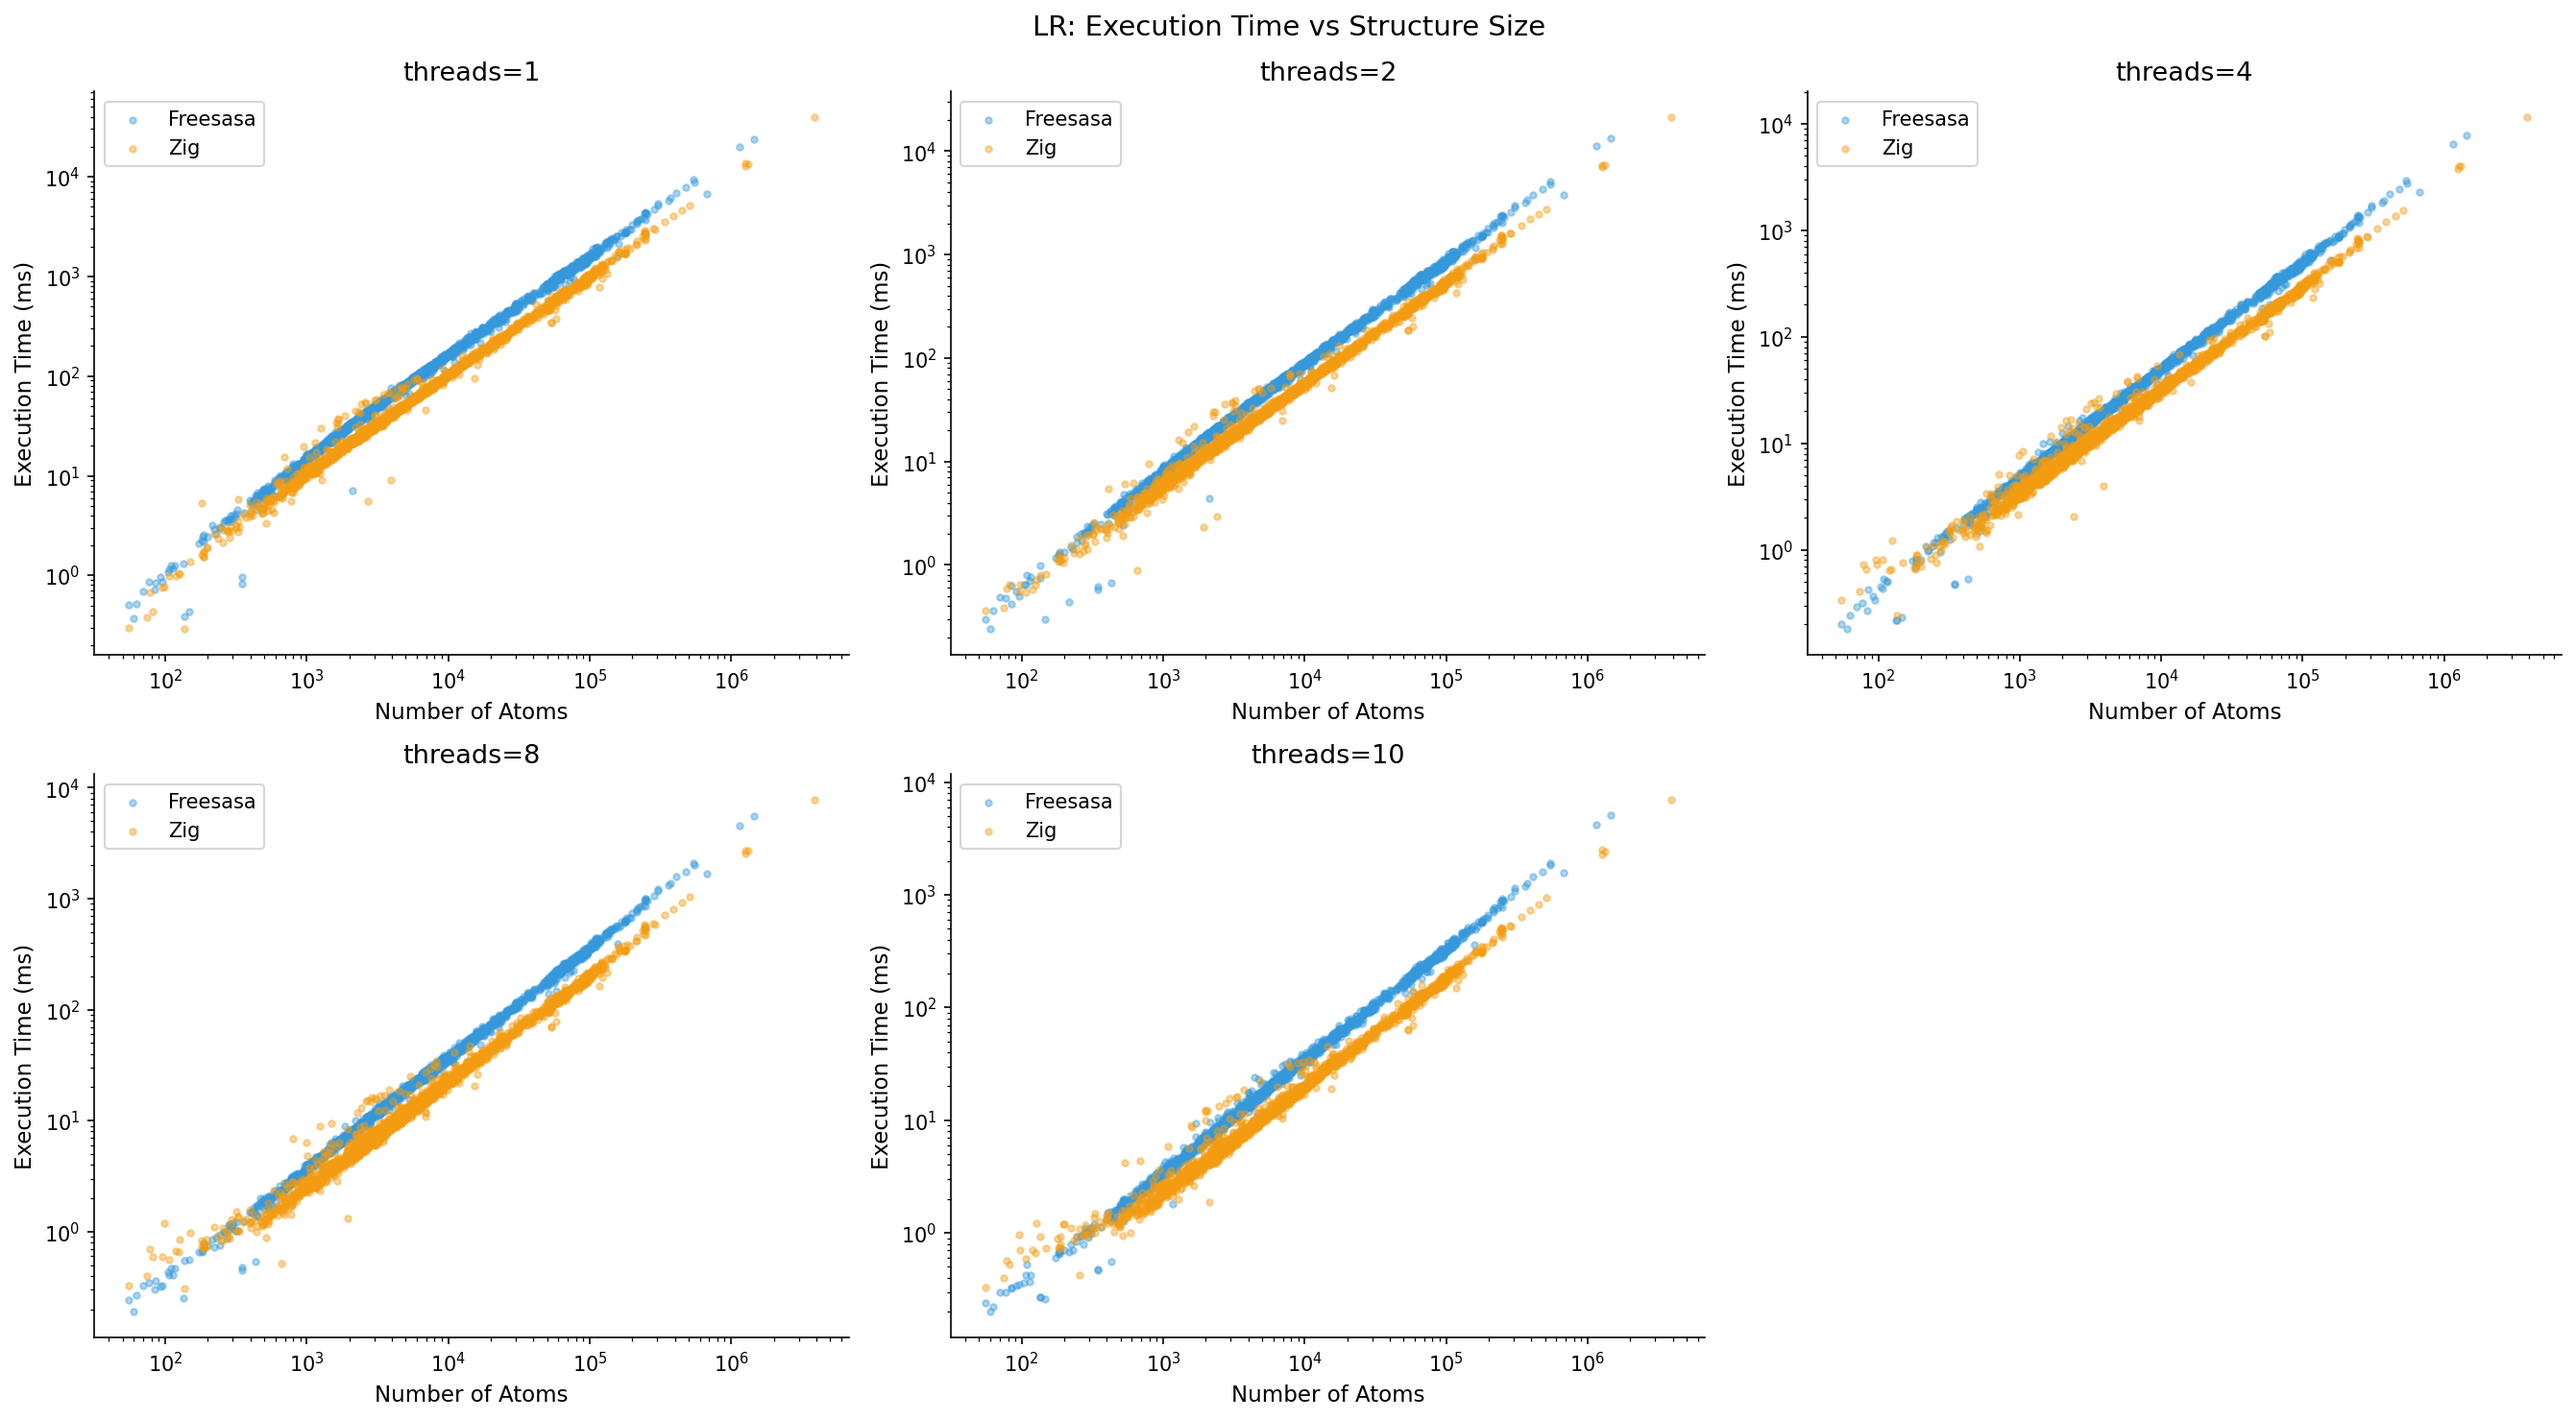
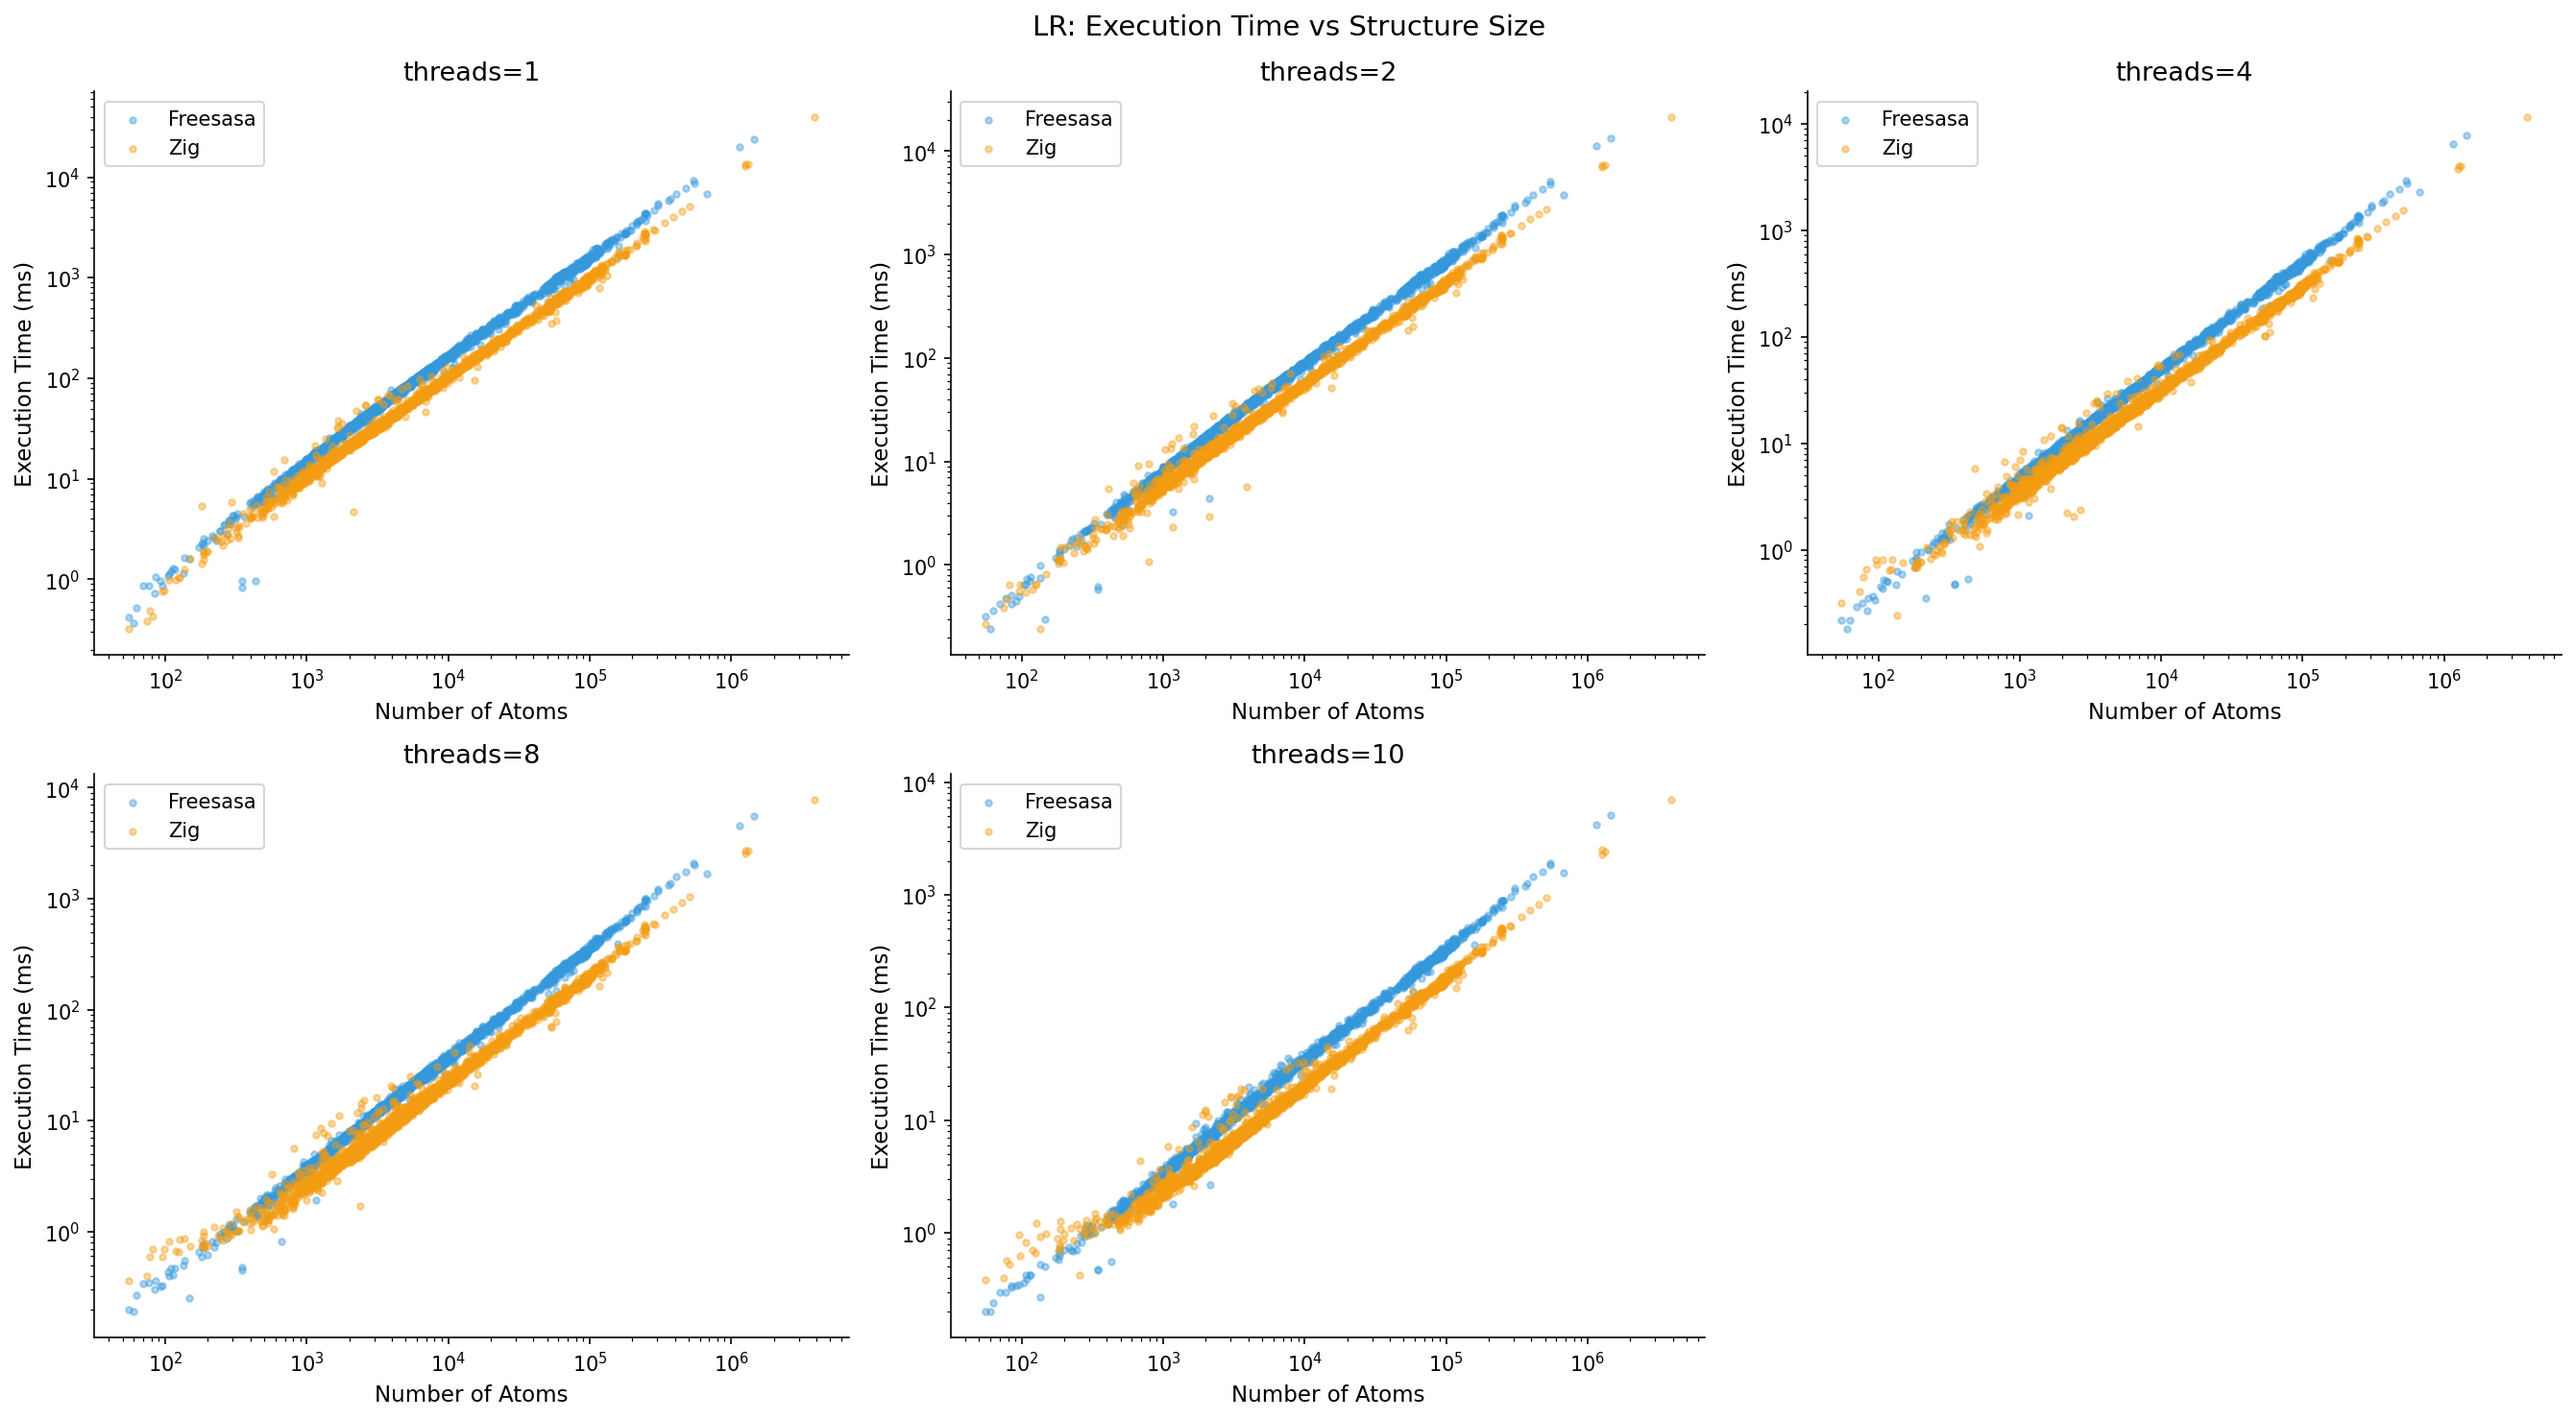
refactor: Remove f32 comparisons from main benchmark plots
- Comment out f32 vs f64 comparison in grid plot
- Filter out f32 from scatter plots
- Filter out f32 from thread scaling plots
- Remove f32 column from efficiency table

f32 has almost no performance difference from f64, so it's treated
as supplementary information (see batch.md for f32 throughput data).

diff --git a/benchmarks/scripts/analyze.py b/benchmarks/scripts/analyze.py
@@ -327,7 +327,11 @@ def _plot_scatter(df_algo: pl.DataFrame, algo: str, ax):
     """Plot scatter for a single algorithm."""
     df_sampled = df_algo.sample(n=min(5000, df_algo.height), seed=42)
 
-    for tool_label in sorted(df_sampled["tool_label"].unique().to_list()):
+    # Exclude f32 from main plots (almost no difference from f64)
+    tool_labels = [
+        t for t in sorted(df_sampled["tool_label"].unique().to_list()) if "f32" not in t
+    ]
+    for tool_label in tool_labels:
         df_tool = df_sampled.filter(pl.col("tool_label") == tool_label)
         ax.scatter(
             df_tool["n_atoms"].to_list(),
@@ -409,7 +413,11 @@ def _plot_threads(df_algo: pl.DataFrame, algo: str, ax):
         .sort(["tool_label", "threads"])
     )
 
-    for tool_label in sorted(scaling["tool_label"].unique().to_list()):
+    # Exclude f32 from main plots (almost no difference from f64)
+    tool_labels = [
+        t for t in sorted(scaling["tool_label"].unique().to_list()) if "f32" not in t
+    ]
+    for tool_label in tool_labels:
         df_tool = scaling.filter(pl.col("tool_label") == tool_label)
         ax.plot(
             df_tool["threads"].to_list(),
@@ -629,26 +637,10 @@ def _plot_speedup_single(
             color="#e74c3c",
         )
 
-    # zig_f32 vs zig_f64
-    if "zig_f32_vs_zig_f64" in speedup_data.columns:
-        y_f32 = [data_dict[label]["zig_f32_vs_zig_f64"] for label in x_labels]
-        y_f32_q25 = [data_dict[label]["zig_f32_vs_zig_f64_q25"] for label in x_labels]
-        y_f32_q75 = [data_dict[label]["zig_f32_vs_zig_f64_q75"] for label in x_labels]
-        yerr_f32 = [
-            [m - q25 for m, q25 in zip(y_f32, y_f32_q25)],
-            [q75 - m for m, q75 in zip(y_f32, y_f32_q75)],
-        ]
-        ax.errorbar(
-            x_pos,
-            y_f32,
-            yerr=yerr_f32,
-            marker="^",
-            linewidth=1.5,
-            markersize=5,
-            capsize=3,
-            label="Zig(f32) vs Zig(f64)",
-            color="#27ae60",  # Green
-        )
+    # zig_f32 vs zig_f64 (omitted - almost no difference, see Appendix)
+    # if "zig_f32_vs_zig_f64" in speedup_data.columns:
+    #     y_f32 = [data_dict[label]["zig_f32_vs_zig_f64"] for label in x_labels]
+    #     ...
 
     # FreeSASA vs Rust
     if "freesasa_vs_rust" in speedup_data.columns:
@@ -1115,8 +1107,8 @@ def efficiency():
 
     # Summary by size bin and tool_label
     thread_counts = sorted(df_eff["threads"].unique().to_list())
-    # Use tool_labels that exist in data
-    tool_labels = ["zig_f64", "zig_f32", "freesasa", "rust"]
+    # Use tool_labels that exist in data (exclude f32 - almost no difference from f64)
+    tool_labels = ["zig_f64", "freesasa", "rust"]
 
     # Table: efficiency by size bin (t=10)
     t_target = 10
@@ -1126,7 +1118,6 @@ def efficiency():
     summary_table.add_column("Size Bin", style="cyan")
     summary_table.add_column("Count", justify="right")
     summary_table.add_column("Zig(f64)", justify="right")
-    summary_table.add_column("Zig(f32)", justify="right")
     summary_table.add_column("FreeSASA", justify="right")
     summary_table.add_column("Rust", justify="right")
 
